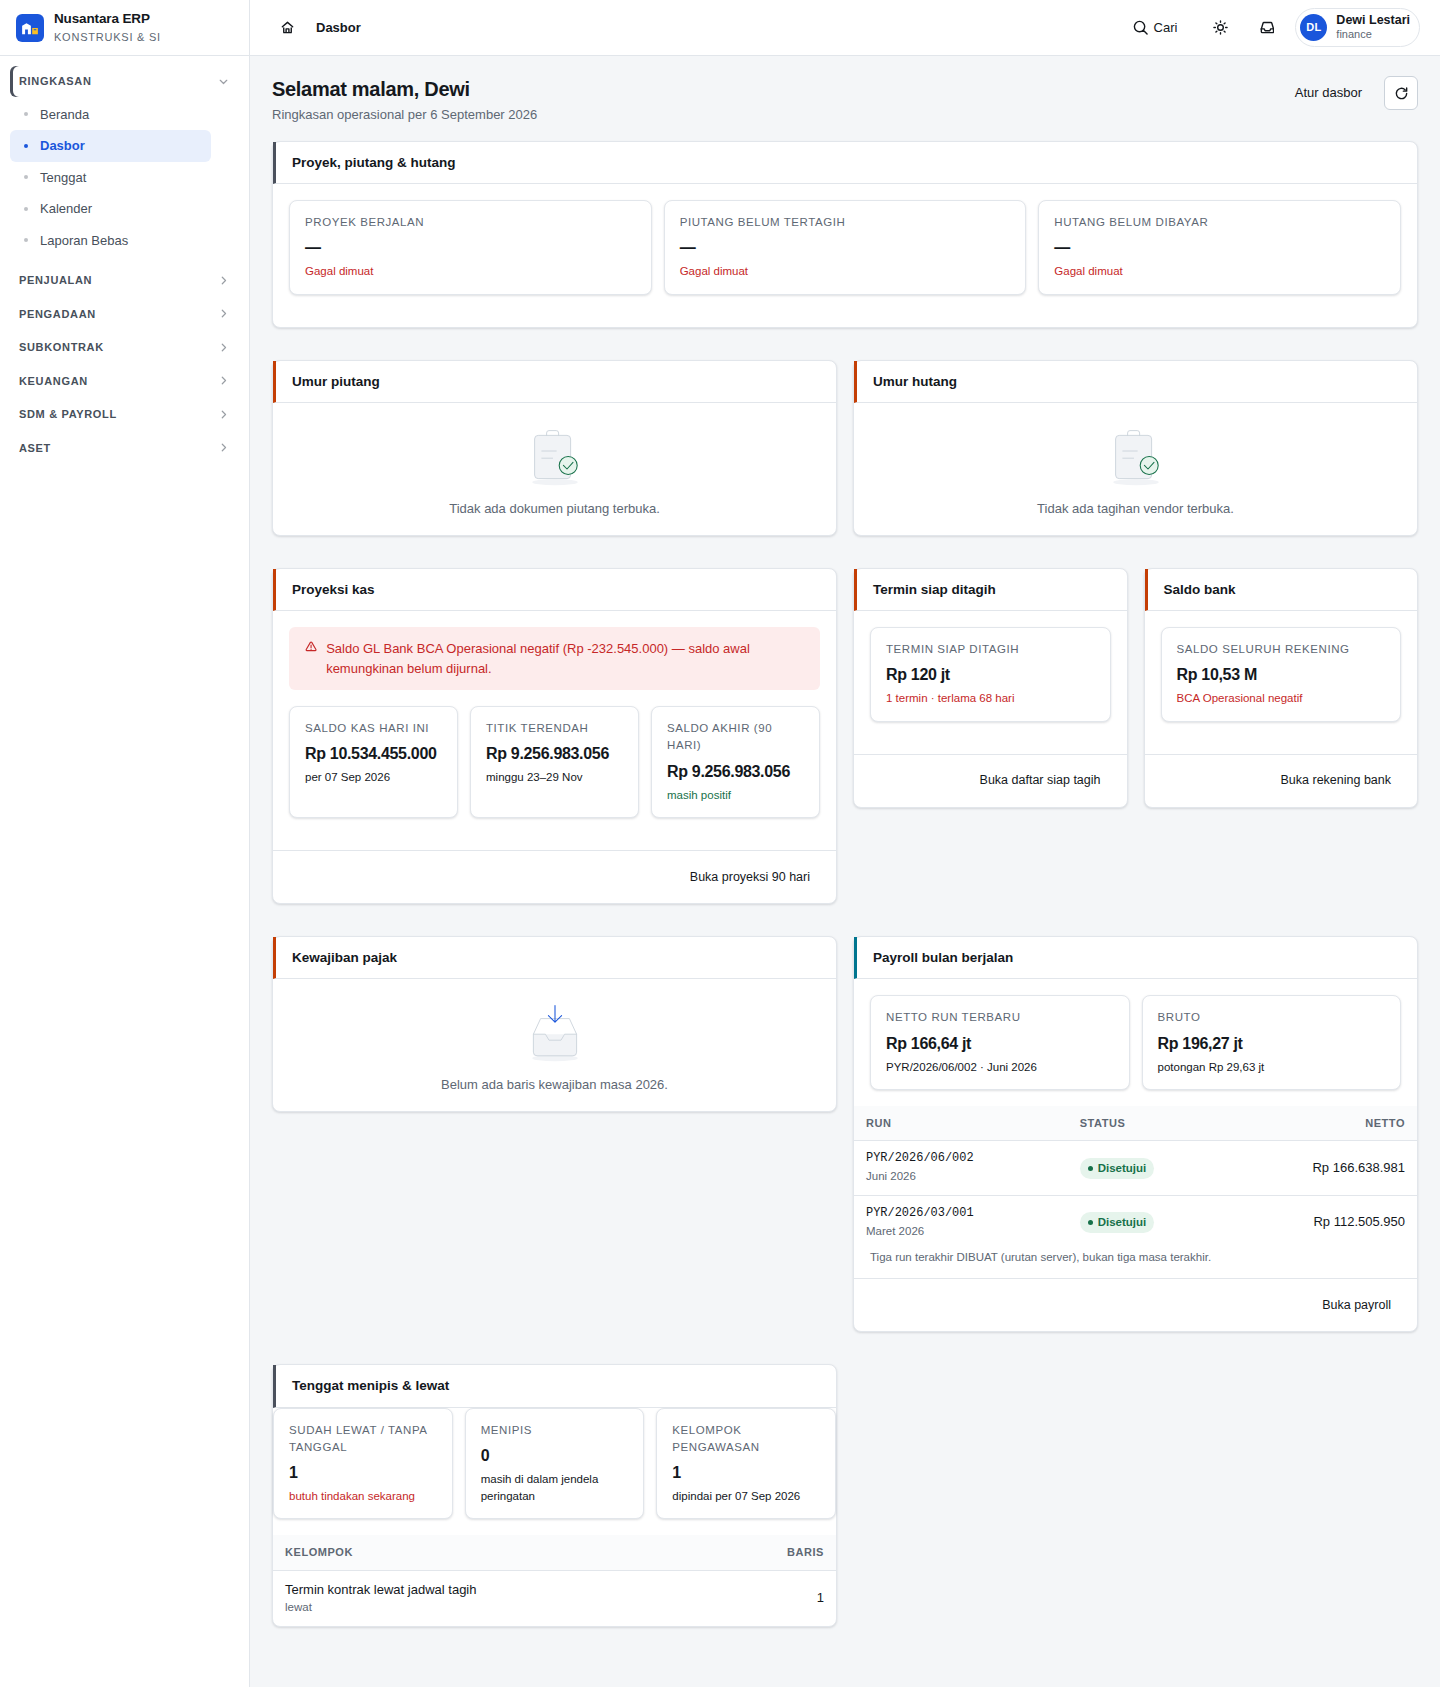
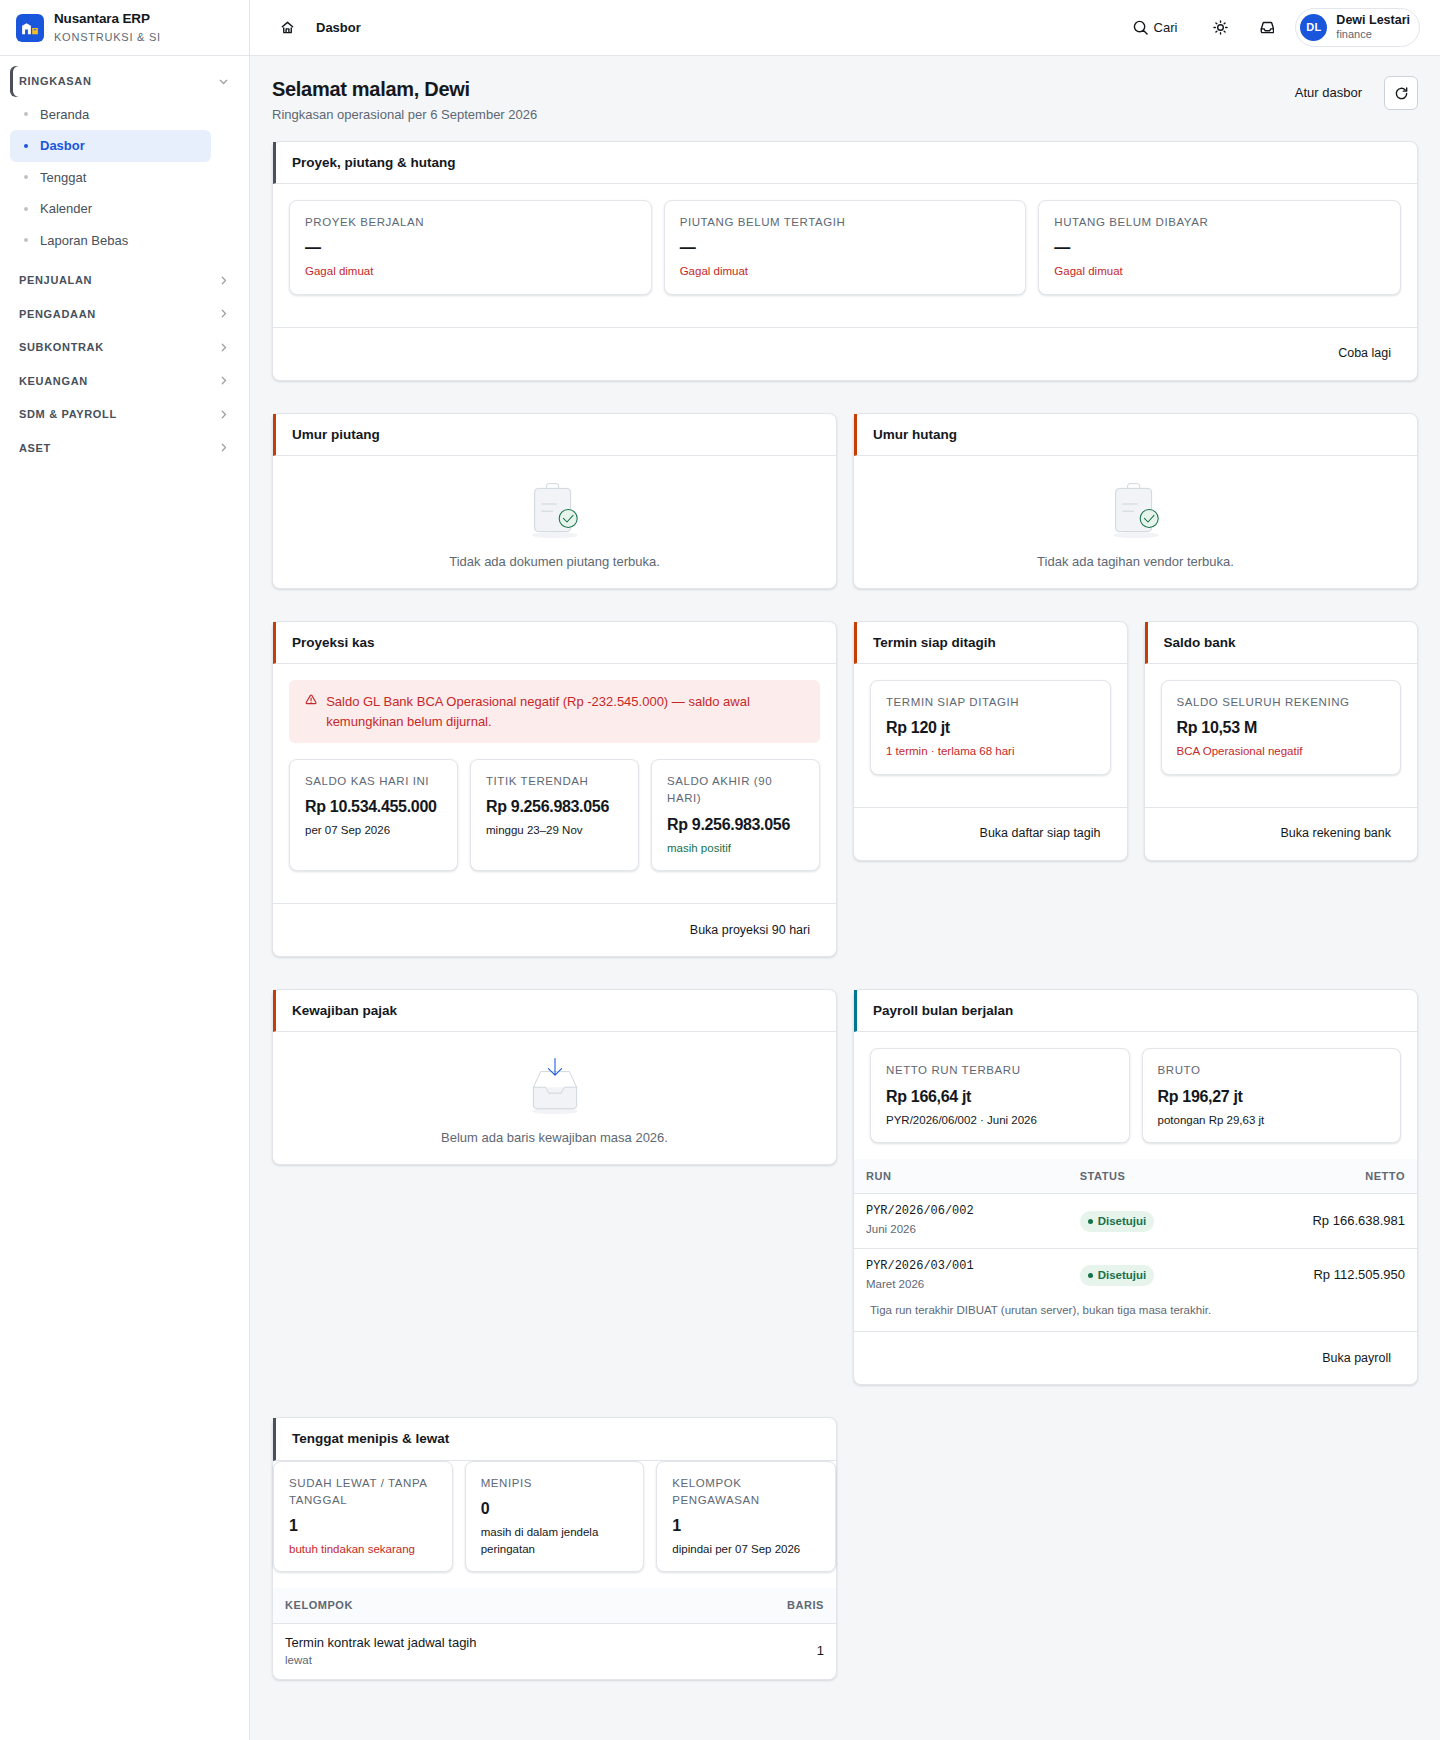
spa: empat widget yang gagal lewat failedStat kini menawarkan 'Coba lagi' — kartu uang yang jatuh punya NOL tombol, jadi satu-satunya pemulihannya Muat ulang sehalaman (9 permintaan untuk memperbaiki 1), yaitu perilaku P1-C yang paket ini menyatakan digantikannya; terukur 1 tombol / 1 permintaan ses

diff --git a/public/app/js/views/widgets/kit.js b/public/app/js/views/widgets/kit.js
@@ -89,6 +89,26 @@ export function stat(label, value, { sub, tone, onClick, small = true } = {}) {
  */
 export const failedStat = (label) => stat(label, '—', { sub: 'Gagal dimuat', tone: 'down' });
 
+/**
+ * Badan widget untuk ubin ANGKA yang gagal — dengan "Coba lagi"-nya.
+ *
+ * failedStat() sendiri hanya menggambar ubinnya, dan sampai verifikasi kedua
+ * P1-D empat widget (ringkasan-uang, saldo-bank, siap-tagih, ncr) memakainya
+ * begitu saja: kartunya menulis '— Gagal dimuat' TANPA satu tombol pun, jadi
+ * satu-satunya pemulihannya adalah "Muat ulang" di kepala halaman — yang
+ * menggambar ulang SELURUH dasbor, yaitu persis perilaku P1-C yang paket ini
+ * menyatakan sudah digantikannya. Terukur: kartu uang direktur = 0 tombol,
+ * sementara kartu ar-aging yang gagal = ['Coba lagi'] dan satu klik = satu
+ * permintaan.
+ *
+ * Kaki yang sama dengan failedBody(): satu widget yang jatuh memuat ulang
+ * dirinya sendiri.
+ */
+export const failedStats = (labels, retry) => el('div', [
+  el('.card-body', statRow(labels.map((label) => failedStat(label)))),
+  retry ? footLink('Coba lagi', retry) : null,
+]);
+
 export function statRow(children) {
   return el('.stat-row', children.filter(Boolean));
 }

diff --git a/public/app/js/views/widgets/ncr.js b/public/app/js/views/widgets/ncr.js
@@ -11,11 +11,11 @@
 
 import { el } from '../../ui.js';
 import { navigate } from '../../router.js';
-import { safeList, failure, rowsOf, totalOf, failedStat, statRow, stat, footLink, miniTable } from './kit.js';
+import { safeList, failure, rowsOf, totalOf, failedStats, statRow, stat, footLink, miniTable } from './kit.js';
 
 const OPEN_STATUSES = ['open', 'under_correction'];
 
-export async function build() {
+export async function build({ reload }) {
   const payloads = await Promise.all(
     OPEN_STATUSES.map((status) => safeList('quality/ncr', { status, per_page: 3 })),
   );
@@ -25,7 +25,7 @@ export async function build() {
   // percaya diri, dan "NCR terbuka 1" pada mutu yang sebenarnya punya 6 adalah
   // kabar baik palsu.
   const broken = payloads.find((payload) => failure(payload));
-  if (broken) return el('.card-body', statRow([failedStat('NCR terbuka')]));
+  if (broken) return failedStats(['NCR terbuka'], reload);
 
   const total = payloads.reduce((sum, payload) => sum + (totalOf(payload) || 0), 0);
   const rows = payloads.flatMap((payload) => rowsOf(payload)).slice(0, 4);

diff --git a/public/app/js/views/widgets/ringkasan-uang.js b/public/app/js/views/widgets/ringkasan-uang.js
@@ -17,9 +17,9 @@
 import { el } from '../../ui.js';
 import * as fmt from '../../format.js';
 import { navigate } from '../../router.js';
-import { safe, failure, failedStat, statRow, stat } from './kit.js';
+import { safe, failure, failedStats, statRow, stat } from './kit.js';
 
-export async function build({ mineOnly }) {
+export async function build({ mineOnly, reload }) {
   const tiles = await safe('core/dashboard/summary', { mine: mineOnly ? 1 : undefined });
 
   /* Satu fetch memberi makan KETIGA ubin, jadi gagalnya menjatuhkan ketiganya
@@ -27,11 +27,7 @@ export async function build({ mineOnly }) {
      "Hutang belum dibayar Rp 0" di atas sumber yang jatuh adalah kebohongan
      yang rapi. */
   if (failure(tiles)) {
-    return el('.card-body', statRow([
-      failedStat('Proyek berjalan'),
-      failedStat('Piutang belum tertagih'),
-      failedStat('Hutang belum dibayar'),
-    ]));
+    return failedStats(['Proyek berjalan', 'Piutang belum tertagih', 'Hutang belum dibayar'], reload);
   }
 
   // Label ikut sakelarnya: angka yang berganti makna tidak boleh memakai judul

diff --git a/public/app/js/views/widgets/siap-tagih.js b/public/app/js/views/widgets/siap-tagih.js
@@ -8,13 +8,13 @@
 import { el } from '../../ui.js';
 import * as fmt from '../../format.js';
 import { navigate } from '../../router.js';
-import { safeList, failure, rowsOf, failedStat, statRow, stat, footLink, tileEmpty } from './kit.js';
+import { safeList, failure, rowsOf, failedStats, statRow, stat, footLink, tileEmpty } from './kit.js';
 
 export async function build({ reload }) {
   // api.list, bukan api.get: `meta.total_amount` adalah jumlah SERVER, dan
   // menjumlah ulang di klien hanya menambah satu tempat yang bisa berselisih.
   const payload = await safeList('crm/contract-termins/billing-ready');
-  if (failure(payload)) return el('.card-body', statRow([failedStat('Termin siap ditagih')]));
+  if (failure(payload)) return failedStats(['Termin siap ditagih'], reload);
 
   const rows = rowsOf(payload);
   if (!rows.length) return tileEmpty('Tidak ada termin yang siap ditagih.', 'done');

diff --git a/public/app/js/views/widgets/saldo-bank.js b/public/app/js/views/widgets/saldo-bank.js
@@ -10,13 +10,13 @@
 import { el } from '../../ui.js';
 import * as fmt from '../../format.js';
 import { navigate } from '../../router.js';
-import { safe, failure, failedStat, statRow, stat, footLink, tileEmpty } from './kit.js';
+import { safe, failure, failedStats, statRow, stat, footLink, tileEmpty } from './kit.js';
 
 export async function build({ reload }) {
   const rows = await safe('finance/reports/bank-balances');
   // Gagal LEBIH DULU daripada .length: sumber yang jatuh panjangnya 0, dan
   // cabang "kosong" akan menuliskan Rp 0 di atas kas yang tidak diketahui.
-  if (failure(rows)) return el('.card-body', statRow([failedStat('Saldo bank')]));
+  if (failure(rows)) return failedStats(['Saldo bank'], reload);
   if (!rows.length) return tileEmpty('Belum ada rekening bank yang terdaftar.');
 
   const total = rows.reduce((sum, row) => sum + Number(row.balance || 0), 0);

diff --git a/docs/bukti-uji/harness-playwright.py b/docs/bukti-uji/harness-playwright.py
@@ -3630,6 +3630,23 @@ def s23f(pg):
     money = broken.get("ringkasan-uang", "")
     others = [i for i in healthy if i != "ringkasan-uang"]
 
+    # …dan PEMULIHANNYA. Mengaku gagal tanpa menawarkan jalan keluar hanya
+    # setengah janji paket ini ("satu widget yang gagal memuat ulang dirinya
+    # sendiri"): sampai verifikasi kedua P1-D kartu uang yang jatuh punya NOL
+    # tombol, dan satu-satunya pemulihannya adalah Muat ulang di kepala
+    # halaman — sembilan permintaan untuk memperbaiki satu, yaitu perilaku
+    # P1-C yang paket ini menyatakan sudah digantikannya. Yang diukur di sini
+    # adalah tombolnya DAN berapa permintaan yang dibayar satu klik.
+    retry_buttons = pg.evaluate(
+        "() => [...document.querySelectorAll('.dash-grid .card.widget[data-widget=\"ringkasan-uang\"] button')]"
+        ".map((b) => b.innerText.trim())")
+
+    requests_on_retry = []
+    pg.on("request", lambda r: requests_on_retry.append(r.url.split("/api/")[1]) if "/api/" in r.url else None)
+    if retry_buttons:
+        pg.click(".dash-grid .card.widget[data-widget='ringkasan-uang'] button")
+        pg.wait_for_timeout(2000)
+
     return {
         "healthy_money_card": healthy.get("ringkasan-uang", "")[:120],
         "broken_money_card": money[:160],
@@ -3638,12 +3655,17 @@ def s23f(pg):
         "writes_em_dash": money.count("—") >= 3,
         # Yang paling penting: TIDAK ada angka rupiah yang dikarang.
         "no_zero_rupiah": "Rp 0" not in money,
+        "retry_buttons": retry_buttons,
+        "requests_on_retry": requests_on_retry,
         "other_cards_still_loaded": [i for i in others if i in broken and len(broken[i]) > 3],
         "other_cards_lost": [i for i in others if i not in broken],
         "ok": (
             "ringkasan-uang" in broken
             and "Gagal dimuat" in money
             and "Rp 0" not in money
+            and retry_buttons == ["Coba lagi"]
+            # Satu klik = satu permintaan: widget itu saja, bukan dasbor.
+            and len(requests_on_retry) == 1
             and not [i for i in others if i not in broken]
         ),
     }
